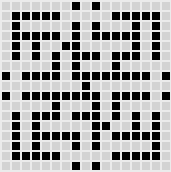
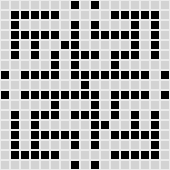
jatek 0.88

diff --git a/js/jatek.js b/js/jatek.js
@@ -242,8 +242,8 @@ const board_5 = [['.', '.', '.', '.', '.', '.', '.', '!', '.', '!', '.', '.', '.
 
 const board_6 = [['.', '.', '.', '.', '.', '.', '.', '!', '.', '!', '.', '.', '.', '.', '.', '.', '.'],
 ['.', '.', '!', '.', '!', '!', '.', '!', '.', '.', '.', '!', '.', '!', '!', '.', '.'],
-['.', '!', '.', '.', '!', '.', '.', '.', '.', '!', '.', '.', '.', '!', '.', '!', '.'],
-['.', '!', '!', '.', '.', '!', '.', '!', '.', '!', '.', '!', '!', '.', '.', '.', '.'],
+['.', '!', '!', '.', '!', '.', '.', '.', '.', '!', '.', '.', '.', '.', '!', '!', '.'],
+['.', '!', '.', '.', '.', '!', '.', '!', '.', '!', '.', '!', '!', '.', '.', '.', '.'],
 ['.', '.', '.', '!', '.', '!', '!', '.', '.', '.', '.', '.', '.', '.', '!', '!', '.'],
 ['.', '!', '.', '!', '.', '.', '.', '!', '.', '!', '!', '.', '!', '!', '.', '!', '.'],
 ['.', '.', '.', '.', '.', '!', '.', '.', '.', '.', '.', '!', '.', '.', '.', '.', '.'],
@@ -253,8 +253,8 @@ const board_6 = [['.', '.', '.', '.', '.', '.', '.', '!', '.', '!', '.', '.', '.
 ['.', '.', '.', '.', '.', '!', '.', '.', '.', '.', '.', '!', '.', '.', '.', '.', '.'],
 ['.', '!', '.', '!', '!', '.', '!', '!', '.', '!', '.', '.', '.', '!', '.', '!', '.'],
 ['.', '!', '!', '.', '.', '.', '.', '.', '.', '.', '!', '!', '.', '!', '.', '.', '.'],
-['.', '.', '.', '.', '!', '!', '.', '!', '.', '!', '.', '!', '.', '.', '!', '!', '.'],
-['.', '!', '.', '!', '.', '.', '.', '!', '.', '.', '.', '.', '!', '.', '.', '!', '.'],
+['.', '.', '.', '.', '!', '!', '.', '!', '.', '!', '.', '!', '.', '.', '.', '!', '.'],
+['.', '!', '!', '.', '.', '.', '.', '!', '.', '.', '.', '.', '!', '.', '!', '!', '.'],
 ['.', '.', '!', '!', '.', '!', '.', '.', '.', '!', '.', '!', '!', '.', '!', '.', '.'],
 ['.', '.', '.', '.', '.', '.', '.', '!', '.', '!', '.', '.', '.', '.', '.', '.', '.']];
 
@@ -374,6 +374,7 @@ let progressbar;
 let fields = [];
 let rackfields = [];
 let fieldsize = 29;
+let rackfieldsize = 29;
 let height;
 let width;
 let fontsizeletter = "20px";
@@ -844,13 +845,13 @@ function loadGame() {
     let rackl = localStorage.getItem('Rack');
     rackl1 = JSON.parse(rackl);
     drawRack(rackl1);
-    adaptToChangedSize();   //   Talán ez hiányzik mobilon
     let rackfields = document.querySelectorAll(".rack-field");
     for (let lettercount = 0; lettercount < rackl1.length; lettercount++) {
         let value = rackl1[lettercount][0];
         letteri = restoreLetter(lettercount, value, "ontherack");
         rackfields[lettercount].appendChild(letteri);
         rackfields[lettercount].setAttribute("ondragover", "");
+        rackfields[lettercount].setAttribute("class", "rack-field occupied");                                      // !!!!!
     }
     let wordsingames = localStorage.getItem('WordsInGame');
     wordsingame = JSON.parse(wordsingames);
@@ -1168,9 +1169,9 @@ function patternSearch(searchpatterns) {
         }
         let numberofwords = document.createElement("div");
         searchpatterns[i][1].parentElement.appendChild(numberofwords);
-        numberofwords.style.width = numberlabelsize.toString() + "px";;
-        numberofwords.style.height = numberlabelsize.toString() + "px";;
-        numberofwords.style.fontSize = numberfontsize.toString() + "px";;
+        numberofwords.style.width = numberlabelsize.toString() + "px";
+        numberofwords.style.height = numberlabelsize.toString() + "px";
+        numberofwords.style.fontSize = numberfontsize.toString() + "px";
         if (wordsfound == 0) {
             numberofwords.setAttribute("class", "numberofwords red");
             numberofwords.innerHTML = "0";
@@ -1333,6 +1334,10 @@ function endOfGame() {
         destroyPopup();
     } catch (err) { }
     lockOnUI();
+    let lettersonrack = document.querySelectorAll(".letter-on-rack");
+    for (let j = 0; j < lettersonrack.length; j++) {
+        lettersonrack[j].draggable = true;
+    }
     clearInterval(timeout);
     displayResult();
     localStorage.setItem('SavedGame', JSON.stringify(false));
@@ -1343,6 +1348,7 @@ function displayResult() {
     popup1 = document.createElement("div");
     popup1.setAttribute("class", "popupresult");
     popup1.style.fontSize = fontsizebutton;
+    popup1.style.paddingTop = fontsizebutton;
     resultsdiv.appendChild(popup1);
     let form1 = document.createElement("form");
     form1.setAttribute("class", "popupresultcontent");
@@ -1373,6 +1379,7 @@ function displayResult() {
     button1.addEventListener("click", destroyPopupResult);
     button1.style.height = Math.floor(fieldsize * 1).toString() + "px";
     button1.style.fontSize = fontsizebutton;
+    button1.style.marginBottom = fontsizebutton;
     td2.appendChild(button1);
     let tr3 = document.createElement("tr");
     table1.appendChild(tr3);
@@ -1386,7 +1393,7 @@ function displayResult() {
     button2.addEventListener("click", displayDetails);
     button2.style.height = Math.floor(fieldsize * 1).toString() + "px";
     button2.style.fontSize = fontsizebutton;
-    button2.style.marginTop = "2px";
+    button2.style.marginBottom = fontsizebutton;
     td3.appendChild(button2);
     table1.style.display = "block"
 }
@@ -1411,6 +1418,7 @@ function lockOffMain_Rules_Start() {
 function displayDetails() {
     fset = document.querySelector("fieldset");
     let table1 = document.createElement("table");
+    table1.id = "w-table";
     fset.appendChild(table1);
     for (let words of wordsingame) {
         let tr1 = document.createElement("tr");
@@ -1434,7 +1442,7 @@ function resultText() {
     else {
         turn1 = document.getElementById("turn").value.split('/')[0];
     }
-    let rtext = `<div>${selectedboardnum + 1}. tábla</div><br><div>A keresztrejtvény kitöltöttsége: ${fillrate}%</div><br><div>A fordulók száma: ${turn1}</div><br><div>A tétlen fordulók száma: ${idleturns}</div><br><div>Az elért pontszám: ${score}</div><br><div>Az játékban töltött idő: ${totaltime} másodperc</div> `
+    let rtext = `<br><div>${selectedboardnum + 1}. tábla</div><br><div>A keresztrejtvény kitöltöttsége: ${fillrate}%</div><div>A fordulók száma: ${turn1}</div><div>A tétlen fordulók száma: ${idleturns}</div><div>Az elért pontszám: ${score}</div><div>Az játékban töltött idő: ${totaltime} másodperc</div><br> `
     return rtext;
 }
 
@@ -1844,7 +1852,7 @@ function wordSearch(ev) {
     if (notfound.length) {
         input1.style.color = "darkred";
     } else {
-        input1.style.color = "orange";
+        input1.style.color = "green";
     }
 }
 
@@ -1938,14 +1946,18 @@ function adaptToChangedSize() {
     let letters = document.querySelectorAll(".letter");
     for (let letter of letters) {
         letter.style.fontSize = fontsizeletter;
-        letter.style.width = fieldsize.toString() + "px";
-        letter.style.height = fieldsize.toString() + "px";
+        //letter.style.width = fieldsize.toString() + "px";
+        //letter.style.height = fieldsize.toString() + "px";
+        letter.style.width = "100%";
+        letter.style.height = "100%";
     }
     let lettersonrack = document.querySelectorAll(".letter-on-rack");
     for (let letter of lettersonrack) {
         letter.style.fontSize = fontsizeletter;
-        letter.style.width = rackfieldsize.toString() + "px";
-        letter.style.height = rackfieldsize.toString() + "px";
+        //letter.style.width = rackfieldsize.toString() + "px";
+        //letter.style.height = rackfieldsize.toString() + "px";
+        letter.style.width = "100%";
+        letter.style.height = "100%";
     }
     let dashboardtrs = document.querySelectorAll(".dashboard-tr");
     for (let tr of dashboardtrs) {
@@ -2018,8 +2030,10 @@ function selectBoard(pushedbutton) {
     numofselected.innerHTML = `<span>${(selectedboardnum + 1).toString() + "."}</span>`;
     if (touchdevice){
         boardimgsize = Math.floor(width / 3).toString();
-    } 
-    selectedboardtd.innerHTML = `<img src=${boards[selectedboardnum][1]} width=${boardimgsize} height=${boardimgsize} alt=${alt1}/>`;
+        selectedboardtd.innerHTML = `<img src=${boards[selectedboardnum][1]} width=${boardimgsize} height=${boardimgsize} alt=${alt1}/>`;
+    } else { 
+        selectedboardtd.innerHTML = `<img src=${boards[selectedboardnum][1]} alt=${alt1}/>`;
+    }
 }
 
 function getElementPosition(element) {
@@ -2033,7 +2047,7 @@ function initGame() {
         console.log("Drag and Drop API is supported!");
     document.querySelector("#start-screen").style.display = "none";
     document.querySelector("h2").style.display = "inline-block";
-    touchdevice = true
+    //touchdevice = true
     decideOrientation();
     adaptToTouchDevice();
     //window.addEventListener("resize", adaptToChangedSize);
@@ -2066,8 +2080,6 @@ function checkSavedGame() {
     let savedgames = localStorage.getItem('SavedGame');
     savedgame = JSON.parse(savedgames);
     if (savedgame) {   
-
-
         displayMessage("Figyelem!", "Az előző játék félbeszakadt.<br> Szeretnéd folytatni?", initGame, setupNewGame, "setup-new-game", "#setup-new-game");
     } else {
         setupNewGame();
@@ -2085,22 +2097,34 @@ function setupNewGame() {
 
 function initStartScreen(){
     touchdevice = ('ontouchstart' in document.documentElement);
-    touchdevice = true;
+    //touchdevice = true;
     if (touchdevice){
         decideOrientation();
-        document.querySelector("#start-screen").style.fontSize = "35px"
-        //document.querySelector("#start-screen").style.width = "100%";
-        //document.querySelector("#start-screen").style.height = height.toString()+"px";
-
+        startscreen = document.querySelector("#start-screen");
+        startscreen.style.fontSize = "35px";
+        startscreen.style.backgroundImage = "url('img/rotatedboard1.png')";
+        startscreen.style.backgroundRepeat = "no-repeat"; 
+        startscreen.style.backgroundSize = "100%";
+        startscreen.style.backgroundPosition = "top center";
         document.querySelector("#title").style.fontSize = "45px";
         document.querySelector("#small1").style.fontSize = "35px";
         let flagimages = document.querySelectorAll(".flag-img");
         for (flag of flagimages){ 
             flag.width = Math.floor(width / 3).toString();
-
         }
         document.querySelector("#board-img").width = Math.floor(width / 3).toString();
-        document.querySelector("#board-img").height = Math.floor(width / 3).toString();
+        document.querySelector("#board-img").height = Math.floor(width / 3).toString(); 
+        arrowbuttons = document.querySelectorAll(".arrow-button");
+        for (arrowbutton of arrowbuttons){
+            arrowbutton.style.width = "100px";
+            arrowbutton.style.height = "100px";
+        } 
+    } else {
+        startscreeninnerdiv = document.querySelector("#start-screen-inner-div");
+        startscreeninnerdiv.style.backgroundImage = "url('img/rotatedboard1.png')";
+        startscreeninnerdiv.style.backgroundRepeat = "no-repeat"; 
+        startscreeninnerdiv.style.backgroundSize = "100%";
+        startscreeninnerdiv.style.backgroundPosition = "top center";
     }
     checkSavedGame();
 }

diff --git a/jatek.html b/jatek.html
@@ -21,8 +21,8 @@
 </head>
 
 <body>
-    <div id="start-screen"  style="background-image: url('img/rotatedboard1.png'); background-repeat: no-repeat; background-size: 100%; background-position: top center">
-        <div style="display:inline-block; padding-left: 3%; padding-right: 3%">
+    <div id="start-screen">
+        <div id="start-screen-inner-div" style="display:inline-block; padding-left: 3%; padding-right: 3%">
             <br>
             <h1 id="title" style="text-shadow: 5px 5px 7px black, 0 0 25px darkblue, 0 0 15px darkblue">Ne hagyd üresen!</h1>
             <small id="small1"
@@ -32,9 +32,8 @@
                 <br>
                 <br>
                 <br>
-                <br>
                 <p>Nyelv:</p>
-                <div id="select-language" style="display:inline-block; padding:30px; border-style: solid; border-width: 5px; border-radius: 20px; 
+                <div id="select-language" style="display:inline-block; width:100%; box-sizing: border-box; padding:30px; border-style: solid; border-width: 5px; border-radius: 20px; 
             border-color: lightblue; background-color: black; opacity:80%">
                     <button id="hun-lang" class="lang-button" type="button"
                         style="border: none; background-color: black; position: relative"
@@ -54,7 +53,7 @@
                 <br>
                 <p>Tábla:</p>
                 <div id="select-board"
-                    style="display:inline-block; width: 100%; padding-top:30px; padding-bottom:30px; border-style: solid; border-width: 5px; border-radius: 20px; border-color: lightblue">
+                    style="display:inline-block; width:100%; box-sizing: border-box; padding-top:30px; padding-bottom:30px; border-style: solid; border-width: 5px; border-radius: 20px; border-color: lightblue">
                     <table style="display:inline-block">
                         <tbody>
                             <tr>
@@ -64,19 +63,17 @@
                             </tr>
                             <tr>
                                 <td>
-                                    <button id="button-left" class="arrow-button" type="button"
-                                        style="width: 60px; height: 60 px" onclick="selectBoard('left')"><b
-                                            id="left-arrow"
-                                            style="font-size: 30px; color: white; background-color:rgb(21, 202, 202)">&lt;</b></button>
+                                    <button id="button-left" class="arrow-button" type="button" style="width: 80px; height: 80px" 
+                                        onclick="selectBoard('left')"><b id="left-arrow"
+                                        style="font-size: 30px; color: white; background-color:rgb(21, 202, 202)">&lt;</b></button>
                                 </td>
-                                <td id="selected-board" style="width: 122px">
+                                <td id="selected-board" style="width: 172px; height:176px">
                                     <img  id="board-img" src="img/board1.png" alt="1. tábla" />
                                 </td>
                                 <td>
-                                    <button id="button-right" class="arrow-button" type="button"
-                                        style="width: 60px; height: 60 px" onclick="selectBoard('right')"><b
-                                            id="right-arrow"
-                                            style="font-size: 30px; color: white; background-color:rgb(21, 202, 202)">&gt;</b></button>
+                                    <button id="button-right" class="arrow-button" type="button" style="width: 80px; height: 80px"
+                                        onclick="selectBoard('right')"><b id="right-arrow"
+                                        style="font-size: 30px; color: white; background-color:rgb(21, 202, 202)">&gt;</b></button>
                                 </td>
                             </tr>
                         </tbody>
@@ -86,9 +83,8 @@
                 <br>
                 <br>
                 <br>
-                <br>
-                <button id="start-button" type="button" style="display:inline-block;  padding:30px; border-style: solid; 
-            border-width: 5px; border-radius: 20px; width: 100%; font-size: 35px" onclick="initGame()">Start</button>
+                <button id="start-button" type="button" style="display:inline-block; width:100%; box-sizing: border-box;  padding:30px; border-style: solid; 
+                    border-width: 5px; border-radius: 20px; font-size: 35px" onclick="initGame()">Start</button>
                 <br>
                 <br>
                 <br>

diff --git a/szolojatekszabaly.html b/szolojatekszabaly.html
@@ -53,7 +53,7 @@
             <p>
                A Keresés gomb használatával győződhetünk meg arról, hogy a szótárban megtalálható-e a szó, amit ki szeretnénk rakni. Ez hasznos lehet
                akkor, amikor az adott fordulóban csak egy rövidebb, tartalmazott szót rakunk ki, de szeretnénk meggyőződni arról, hogy a tartalmazó, 
-               hosszabb szó is érvényes. Vörös szín jelzi, ha a szó nem érvényes, a szöveg narancsszínűre vált, ha érvényes.   
+               hosszabb szó is érvényes. Vörös szín jelzi, ha a szó nem érvényes, a szöveg zöldre vált, ha érvényes.   
             </p>
             <p>A Szünet gomb használatával a játék megállítható, majd folytatható. A szünet ideje alatt a tábla pillanatnyi állása és a
                 tartón levő betűk nem láthatóak.

diff --git a/css/jatek.css b/css/jatek.css
@@ -321,6 +321,7 @@ ul{
     font-family: inherit;
     display: inline-block;  
     vertical-align: top;
+    text-align: left;
 }
 
 .popupresult{
@@ -329,6 +330,10 @@ ul{
     padding: 8px;
     background-color: #555;
     color: #fff;    
+}
+
+#w-table:nth-child(even) {
+    background-color:rgb(199, 198, 198);
 }
 
 .words-table{
